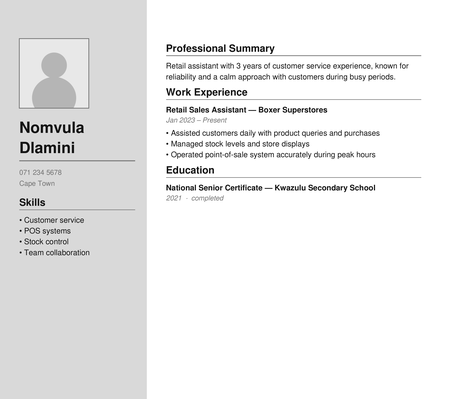
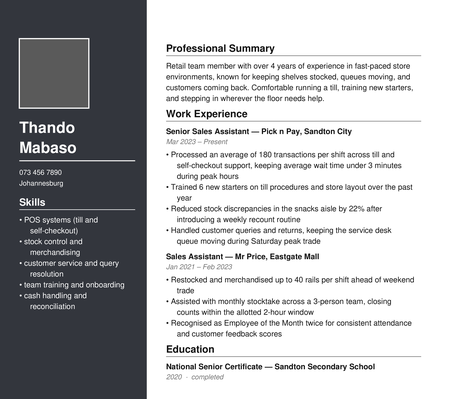
Gallery: re-render to pick up Plasing-1's template redesign (737e6d1)
Second pass over the same 16 templates and same Thando Mabaso content,
this time rendering through the redesigned template code that just
landed in Plasing-1. Verified the actual diff before re-rendering: Photo
Sidebar, Two-Column, Bold Header, and Photo Header Band now use a solid
accent-colour panel/band (Charcoal by default) with white text instead
of flat gray; Banded alternates two tint strengths of the accent per
section instead of one flat gray band; Bordered drops its page-frame box
for a bolder heading underline; Compact and Photo Compact tighten further
via the new itemGap lever, fitting visibly more content in the same crop
window. Contact Bar's PNG is byte-identical to the prior pass since its
grayscale path is genuinely unchanged (only its accent-colour path
changed) — expected, not a miss.

Also corrected the templates-note: dropped the now-stale "Photo Sidebar
still shows the old placeholder" exception, and fixed a claim that was
about to go inaccurate for the four panel-style templates, whose real
accent choice now colours the whole panel/band, not just the name and
divider rule the way every other template's does — the on-page swatch
preview still only recolors the name and rule, so the copy now says so
plainly instead of overclaiming.

diff --git a/index.html b/index.html
@@ -731,7 +731,7 @@
 
       <p class="template-empty" id="template-empty" hidden>No templates match that filter combination.</p>
 
-      <p class="templates-note">Advanced: the bot offers all 16 templates, WhatsApp's list-message limit is handled with a "Show more" second menu, not a hard cutoff, and this gallery now shows all 16 too. Every tile above is a real PDF rendered by CareerSignal's own template code, using one consistent placeholder profile ("Thando Mabaso") so the designs are genuinely comparable, not a real customer's CV, with one exception: Photo Sidebar still shows an earlier placeholder profile while its own redesign is finished, and will be refreshed to match once that lands. Every template is black-and-white by default for reliable ATS parsing. The accent-colour swatches below each tile are real: pick one to preview where the colour lands on your name and section dividers, exactly as it would in the actual document, never behind body text. Colour is only offered from Mid tier up, so it's hidden while the Basic filter is active.</p>
+      <p class="templates-note">Advanced: the bot offers all 16 templates, WhatsApp's list-message limit is handled with a "Show more" second menu, not a hard cutoff, and this gallery now shows all 16 too. Every tile above is a real PDF rendered by CareerSignal's own template code, using one consistent placeholder profile ("Thando Mabaso") so the designs are genuinely comparable, not a real customer's CV. Every template is black-and-white by default for reliable ATS parsing. The accent-colour swatches below each tile are real and preview where colour actually lands in the document: on most templates that's just your name and the section-divider rules, never body text; on Photo Sidebar, Two-Column, Bold Header, and Photo Header Band specifically, colour fills the whole panel or header band behind white text, by design, since those four are built around a solid colour block rather than a plain page. The swatch preview on this page always updates the name and rule; on those four templates the actual document goes further and colours the full panel too. Colour is only offered from Mid tier up, so it's hidden while the Basic filter is active.</p>
     </div>
   </section>
 
